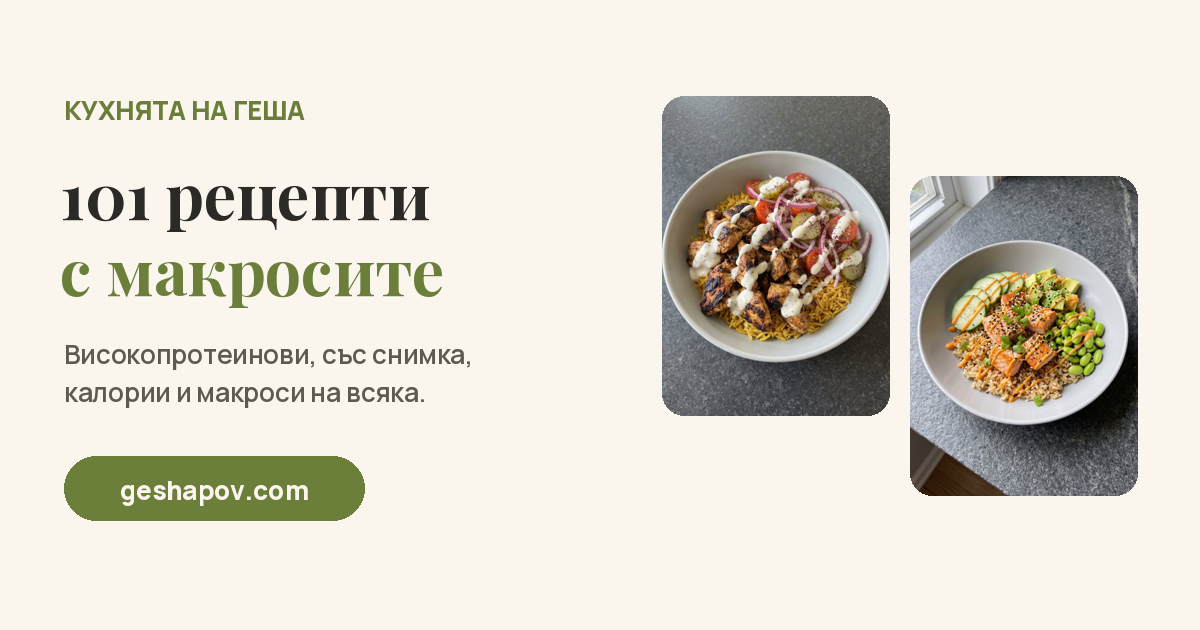
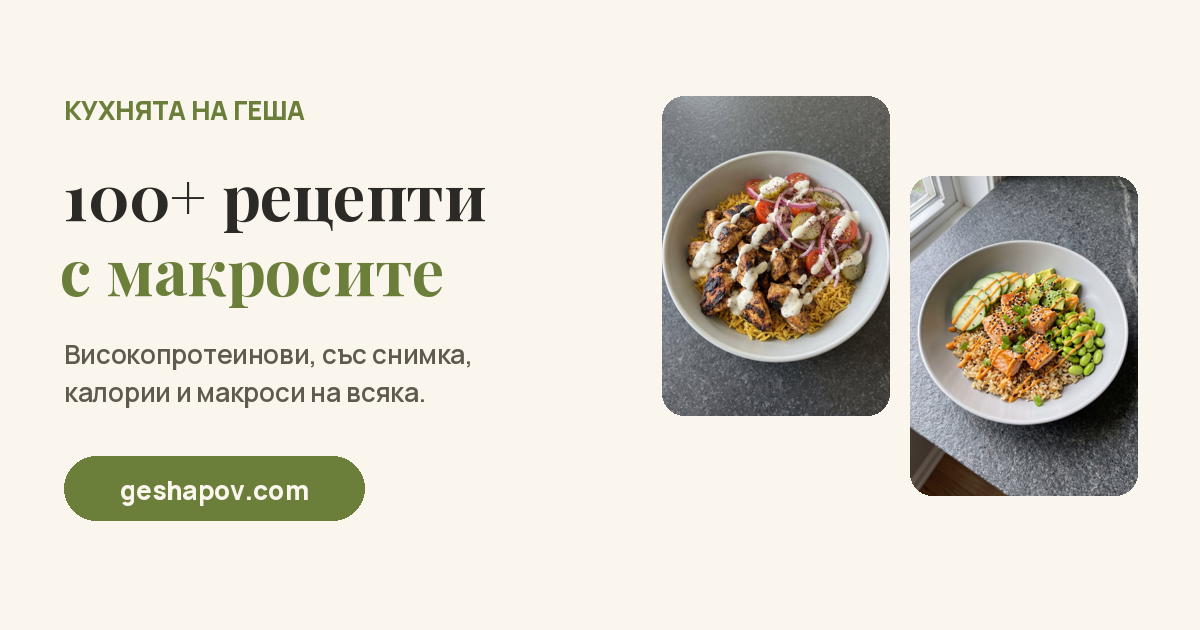
100+ рецепти навсякъде, нови числа, първа бонус рецепта
Claude-Session: https://claude.ai/code/session_01SzKh2J7H7fcAom4pmKcnPD

Changed region(s): [[0.0617, 0.2714, 0.4008, 0.3921]]

diff --git a/lib/email.ts b/lib/email.ts
@@ -73,7 +73,7 @@ export async function sendPurchaseEmail(opts: {
   const text = [
     "Здравей,",
     "",
-    `Благодаря ти, че взе „Кухнята на Геша“! Плащането мина и всичките 101 рецепти вече са отключени за теб.`,
+    `Благодаря ти, че взе „Кухнята на Геша“! Плащането мина и всичките 100+ рецепти вече са отключени за теб.`,
     "",
     "КАК ВЛИЗАШ",
     `1. Отвори ${site}/login`,
@@ -118,7 +118,7 @@ export async function sendPurchaseEmail(opts: {
 <div style="max-width:560px;margin:0 auto;padding:28px 22px;font-family:-apple-system,Segoe UI,Roboto,Arial,sans-serif;font-size:15px;color:#2b2a26">
 <p style="margin:0 0 22px;font-size:13px;font-weight:800;letter-spacing:.1em;color:#6b7f3a">КУХНЯТА НА ГЕША</p>
 ${p("Здравей,")}
-${p("Благодаря ти, че взе „Кухнята на Геша“! Плащането мина и всичките <b>101 рецепти</b> вече са отключени за теб.")}
+${p("Благодаря ти, че взе „Кухнята на Геша“! Плащането мина и всичките <b>100+ рецепти</b> вече са отключени за теб.")}
 <p style="margin:20px 0 22px"><a href="${esc(login)}" style="display:inline-block;background:#6b7f3a;color:#fff;text-decoration:none;font-weight:700;padding:13px 24px;border-radius:100px">Влез в рецептите</a></p>
 ${h("КАК ВЛИЗАШ")}
 ${p(`Влизаш с този имейл: <b>${esc(opts.email)}</b>. Пращам ти линк за вход, без парола, и сайтът те помни на устройството.`)}
@@ -175,7 +175,7 @@ export async function sendGiftEmail(opts: { email: string; codes: string[]; sess
     "",
     ...links,
     "",
-    "Който отвори линка, влиза със своя имейл и получава всичките 101 рецепти и 3 месеца нови рецепти безплатно, точно като теб.",
+    "Който отвори линка, влиза със своя имейл и получава всичките 100+ рецепти и 3 месеца нови рецепти безплатно, точно като теб.",
     `Линковете ги виждаш и в Профил: ${site}/account`,
     "",
     "Геша",
@@ -186,7 +186,7 @@ export async function sendGiftEmail(opts: { email: string; codes: string[]; sess
 <p style="margin:0 0 14px;line-height:1.6">Здравей,</p>
 <p style="margin:0 0 14px;line-height:1.6">${one ? "Благодаря ти! Ето линка за подаръка. Прати го на човека, на когото подаряваш книгата:" : "Благодаря ти! Ето линковете за подаръците. Всеки е за един човек:"}</p>
 ${links.map((l) => `<p style="margin:0 0 10px"><a href="${esc(l)}" style="display:inline-block;background:#6b7f3a;color:#fff;text-decoration:none;font-weight:700;padding:11px 18px;border-radius:100px">🎁 ${esc(l.replace(/^https?:\/\//, ""))}</a></p>`).join("")}
-<p style="margin:16px 0 14px;line-height:1.6">Който отвори линка, влиза със своя имейл и получава всичките 101 рецепти и 3 месеца нови рецепти безплатно, точно като теб.</p>
+<p style="margin:16px 0 14px;line-height:1.6">Който отвори линка, влиза със своя имейл и получава всичките 100+ рецепти и 3 месеца нови рецепти безплатно, точно като теб.</p>
 <p style="margin:0 0 14px;line-height:1.6">Линковете ги виждаш и в <a href="${site}/account" style="color:#6b7f3a">Профил</a>.</p>
 <p style="margin:0 0 14px;line-height:1.6">Геша</p>
 </div></body></html>`;

diff --git a/app/page.tsx b/app/page.tsx
@@ -101,9 +101,9 @@ export default async function LandingPage() {
       },
       {
         "@type": "Product",
-        name: "Кухнята на Геша — 101 високопротеинови рецепти",
+        name: "Кухнята на Геша — 100+ високопротеинови рецепти",
         description:
-          "Онлайн готварска книга със 101 високопротеинови рецепти: снимка, калории и макроси на всяка, порции, които се смятат сами, дневни менюта и общност в Skool.",
+          "Онлайн готварска книга със 100+ високопротеинови рецепти: снимка, калории и макроси на всяка, порции, които се смятат сами, дневни менюта и общност в Skool.",
         image: [`${site}/opengraph-image.png`],
         brand: { "@id": `${site}/#org` },
         offers: {
@@ -163,7 +163,7 @@ export default async function LandingPage() {
           )}
           <div className="hero-cta">
             <p className="hero-lead">
-              101 рецепти със снимка, калории и макроси, плюс дневни менюта,
+              100+ рецепти със снимка, калории и макроси, плюс дневни менюта,
               общност в Skool, видеа и списък за пазаруване. За всеки, който
               иска да яде вкусно и здравословно, не само за фитнес маниаци.
             </p>
@@ -186,21 +186,21 @@ export default async function LandingPage() {
       <section className="stats reveal" aria-label="Книгата в числа">
         <div>
           <b>
-            <CountUp to={101} />
+            <CountUp to={100} suffix="+" />
           </b>
           <span>рецепти</span>
         </div>
         <div>
           <b>
-            <CountUp to={51} />
+            <CountUp to={30} suffix=" мин" />
           </b>
-          <span>са до 30 минути</span>
+          <span>за толкова стават над половината рецепти</span>
         </div>
         <div>
           <b>
-            <CountUp to={35} prefix="~" suffix=" g" />
+            <CountUp to={16} />
           </b>
-          <span>протеин средно</span>
+          <span>за кутии за работа (meal prep)</span>
         </div>
         <div>
           <b>
@@ -307,7 +307,7 @@ export default async function LandingPage() {
             47 € <span>еднократно</span>
           </div>
           <ul>
-            <li>101 рецепти с калории и макроси на порция</li>
+            <li>100+ рецепти с калории и макроси на порция</li>
             <li>Снимка на всяка рецепта</li>
             <li>Избираш порциите, количествата се смятат сами</li>
             <li>Примерни дневни менюта и меню по твоите калории</li>
@@ -472,7 +472,7 @@ export default async function LandingPage() {
         </div>
         <div className="final-copy">
           <h2>Сготви първата рецепта още тази вечер</h2>
-          <p>101 рецепти с макросите, менюта за цялата седмица, общността в Skool и 3 месеца нови рецепти отгоре.</p>
+          <p>100+ рецепти с макросите, менюта за цялата седмица, общността в Skool и 3 месеца нови рецепти отгоре.</p>
           <a href="#pricing" className="btn btn-cream">
             Купи книгата за 47 €
           </a>

diff --git a/app/layout.tsx b/app/layout.tsx
@@ -28,7 +28,7 @@ export const viewport: Viewport = {
 
 export const metadata: Metadata = {
   metadataBase: new URL(getSiteUrl()),
-  title: "Кухнята на Геша — 101 високопротеинови рецепти с калории и макроси",
+  title: "Кухнята на Геша — 100+ високопротеинови рецепти с калории и макроси",
   alternates: { canonical: "./" },
   keywords: [
     "високопротеинови рецепти",
@@ -48,11 +48,11 @@ export const metadata: Metadata = {
     type: "website",
     locale: "bg_BG",
     siteName: "Кухнята на Геша",
-    title: "Кухнята на Геша — 101 рецепти с макросите",
+    title: "Кухнята на Геша — 100+ рецепти с макросите",
     description: "Високопротеинови рецепти със снимка, калории и макроси на всяка.",
   },
   description:
-    "101 високопротеинови рецепти със снимка, калории и макроси на всяка. Избираш порциите, количествата се смятат сами.",
+    "100+ високопротеинови рецепти със снимка, калории и макроси на всяка. Избираш порциите, количествата се смятат сами.",
 };
 
 export default function RootLayout({ children }: LayoutProps<"/">) {

diff --git a/app/podarak/[code]/page.tsx b/app/podarak/[code]/page.tsx
@@ -7,7 +7,7 @@ import { GiftRedeemButton } from "@/components/GiftRedeem";
 
 export const metadata: Metadata = {
   title: "Подарък: Кухнята на Геша",
-  description: "Някой ти подари 101 високопротеинови рецепти с калории и макроси. Влез и ги отключи.",
+  description: "Някой ти подари 100+ високопротеинови рецепти с калории и макроси. Влез и ги отключи.",
   robots: { index: false },
 };
 
@@ -25,7 +25,7 @@ export default async function GiftPage({ params }: { params: Promise<{ code: str
           <>
             <h1 className="display">Имаш подарък</h1>
             <p>
-              Някой ти подари „Кухнята на Геша“: 101 високопротеинови рецепти с
+              Някой ти подари „Кухнята на Геша“: 100+ високопротеинови рецепти с
               калории и макроси, дневни менюта и 3 месеца нови рецепти
               безплатно. Влизаш със своя имейл и всичко е твое.
             </p>

diff --git a/components/GiftCard.tsx b/components/GiftCard.tsx
@@ -11,7 +11,7 @@ export function GiftCard({ gifts, justBought }: { gifts: Gift[]; justBought: boo
       <p>
         Двамата излизате <b>74 € вместо 94 €</b>, спестявате 20 €. Доплащаш
         само за втория, получаваш линк, пращаш го и човекът влиза със своя
-        имейл: 101 рецепти и 3 месеца нови рецепти, точно като теб.
+        имейл: 100+ рецепти и 3 месеца нови рецепти, точно като теб.
       </p>
       {justBought && gifts.length === 0 && (
         <p className="gift-msg">Плащането мина. Линкът ще се появи тук до минута (и идва на имейла ти).</p>

diff --git a/app/recipes/page.tsx b/app/recipes/page.tsx
@@ -65,7 +65,7 @@ function SharedTeaser({ t, signedIn }: { t: RecipeTeaser; signedIn: boolean }) {
       <h1 className="display">{t.title}</h1>
       <p className="teaser-macros">{macrosLine(t)}</p>
       <p>
-        Тази рецепта е от книгата ми с 101 високопротеинови рецепти. Всяка е
+        Тази рецепта е от книгата ми със 100+ високопротеинови рецепти. Всяка е
         със снимка, продукти, стъпки и макроси на порция.
       </p>
       <Link className="btn" href="/#pricing" data-umami-event="Купи: споделена рецепта">

diff --git a/app/api/checkout/gift/route.ts b/app/api/checkout/gift/route.ts
@@ -23,7 +23,7 @@ export async function POST() {
             unit_amount: GIFT_PRICE_CENTS,
             product_data: {
               name: "Кухнята на Геша — подарък за приятел",
-              description: "Достъп до 101-те рецепти за един човек, с негов имейл. Получаваш линк, който му пращаш.",
+              description: "Достъп до всички рецепти от книгата за един човек, с негов имейл. Получаваш линк, който му пращаш.",
             },
           },
           quantity: 1,

diff --git a/components/SiteFooter.tsx b/components/SiteFooter.tsx
@@ -47,7 +47,7 @@ export function SiteFooter() {
 
         <div className="footer-col">
           <h3>Книгата</h3>
-          <p className="footer-offer">101 рецепти за 47 € и 3 месеца нови рецепти безплатно.</p>
+          <p className="footer-offer">100+ рецепти за 47 € и 3 месеца нови рецепти безплатно.</p>
           <Link href="/#pricing" className="btn footer-btn" data-umami-event="Купи: футър">
             Купи книгата
           </Link>

diff --git a/app/manifest.ts b/app/manifest.ts
@@ -4,7 +4,7 @@ export default function manifest(): MetadataRoute.Manifest {
   return {
     name: "Кухнята на Геша",
     short_name: "Кухнята",
-    description: "101 високопротеинови рецепти със снимка, калории и макроси на всяка.",
+    description: "100+ високопротеинови рецепти със снимка, калории и макроси на всяка.",
     start_url: "/recipes",
     display: "standalone",
     background_color: "#faf6ee",

diff --git a/app/produkti/page.tsx b/app/produkti/page.tsx
@@ -60,7 +60,7 @@ export default async function ProductsPage() {
         )}
         {!owner && (
           <div className="menu-cta" style={{ textAlign: "center", marginTop: 36 }}>
-            <p>Всичките 101 рецепти с тези продукти са в книгата.</p>
+            <p>Всички рецепти с тези продукти са в книгата.</p>
             <Link className="btn" href="/#pricing">
               Купи книгата — 47€
             </Link>

diff --git a/components/StickyBuy.tsx b/components/StickyBuy.tsx
@@ -39,7 +39,7 @@ export function StickyBuy({ afterPx }: { afterPx?: number } = {}) {
   return (
     <div className="sticky-buy">
       <div className="sticky-buy-text">
-        <b>101 рецепти · 47 €</b>
+        <b>100+ рецепти · 47 €</b>
         <span>+ 3 месеца нови рецепти безплатно</span>
       </div>
       <CheckoutButton kind="book" className="btn" source="лента">

diff --git a/app/globals.css b/app/globals.css
@@ -2343,6 +2343,7 @@ section.stats {
 .stats div {
   display: grid;
   gap: 2px;
+  align-content: start;
   padding-left: 14px;
   border-left: 2px solid var(--tint-strong);
 }
